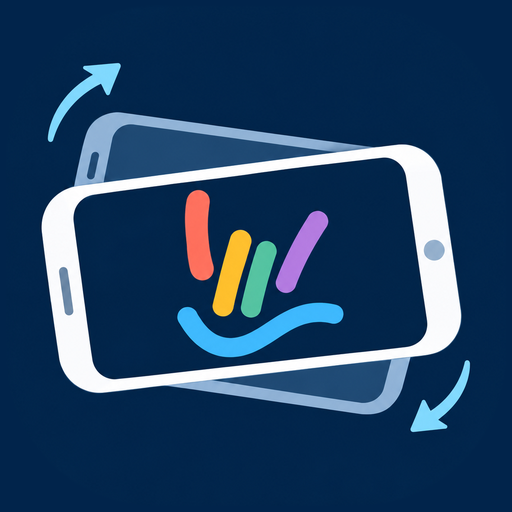
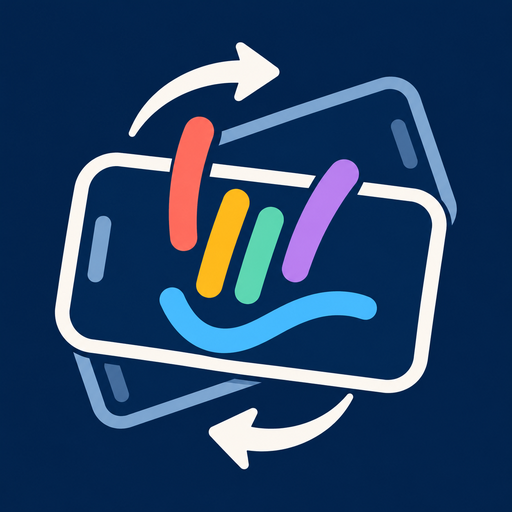
Sync from the private site (88ce4f0)

Changed region(s): [[0.0625, 0.0625, 0.9062, 0.9375], [0.7812, 0.6875, 0.9375, 0.8438], [0.0938, 0.125, 0.25, 0.2812]]

diff --git a/whoami/index.html b/whoami/index.html
@@ -9,7 +9,7 @@
 <meta name="apple-mobile-web-app-title" content="Who Do You Think You Are?">
 <title>Who Do You Think You Are?</title>
 <link rel="icon" type="image/png" href="../img/logo-512.png">
-<link rel="apple-touch-icon" href="icon-180.png">
+<link rel="apple-touch-icon" href="icon-180.png?v=3">
 <meta name="apple-mobile-web-app-status-bar-style" content="black-translucent">
 <link rel="manifest" href="manifest.json">
 <link rel="stylesheet" href="https://fonts.googleapis.com/css2?family=Fredoka:wght@500;600;700&family=Nunito:wght@600;700;800&display=swap">
@@ -26,7 +26,7 @@ h1, h2, .big { font-family: Fredoka, Nunito, system-ui, sans-serif; }
 button { font: inherit; cursor: pointer; border: 0; }
 .wrap { max-width: 980px; margin: 0 auto; padding: max(14px, env(safe-area-inset-top)) max(16px, env(safe-area-inset-right)) max(24px, env(safe-area-inset-bottom)) max(16px, env(safe-area-inset-left)); }
 .top { display: flex; align-items: center; gap: 12px; margin: 4px 0 14px; }
-.logo { width: 54px; height: 54px; border-radius: 16px; background: var(--ink); display: grid; place-items: center; font-size: 30px; transform: rotate(-6deg); box-shadow: 0 4px 0 #0d0926; }
+.logo { width: 58px; height: 58px; border-radius: 16px; display: block; flex: none; transform: rotate(-6deg); box-shadow: 0 4px 0 #0d0926; }      /* 2026-11-25 her new logo */
 .top h1 { margin: 0; font-size: clamp(28px, 6vw, 42px); letter-spacing: .5px; line-height: 1; }
 .top h1 span { color: #E91E63; }
 .sub { margin: 2px 0 0; color: var(--muted); font-weight: 700; font-size: 15px; }
@@ -162,7 +162,7 @@ button { font: inherit; cursor: pointer; border: 0; }
 </head>
 <body>
 <div class="wrap">
-  <header class="top"><div class="logo" aria-hidden="true">🤟</div><div><h1>Who Do You<br><span>Think You Are?</span></h1><p class="sub">Phone on your forehead. Friends describe it in ASL. Tilt to answer.</p></div><a id="edit" href="/colleen/whoami" hidden style="margin-left:auto;background:var(--ink);color:#fff;border-radius:12px;padding:8px 12px;font-weight:800;text-decoration:none;white-space:nowrap">✏ Edit decks</a></header>
+  <header class="top"><img class="logo" src="icon-192.png?v=3" alt="" aria-hidden="true"><div><h1>Who Do You<br><span>Think You Are?</span></h1><p class="sub">Phone on your forehead. Friends describe it in ASL. Tilt to answer.</p></div><a id="edit" href="/colleen/whoami" hidden style="margin-left:auto;background:var(--ink);color:#fff;border-radius:12px;padding:8px 12px;font-weight:800;text-decoration:none;white-space:nowrap">✏ Edit decks</a></header>
 
   <!-- 1. pick a deck -->
   <section id="pick" class="screen on">

diff --git a/whoami/sw.js b/whoami/sw.js
@@ -1,7 +1,7 @@
 /* Who Do You Think You Are? (was Forehead Flash, 2026-11-23): makes the Home Screen app open fast and keep working if the Wi-Fi drops.
    The page and icons: saved copy first, refreshed in the background. Her decks (decks.json): the network first, the saved copy if offline.
    Pictures: saved the first time they load, so a deck played once works offline. Change VER to replace everything. */
-const VER = 'ff-23', SHELL = ['./', 'index.html', 'starter.json', 'manifest.json', 'icon-192.png', 'icon-512.png'];
+const VER = 'ff-24', SHELL = ['./', 'index.html', 'starter.json', 'manifest.json', 'icon-192.png', 'icon-512.png'];
 self.addEventListener('install', e => { e.waitUntil(caches.open(VER).then(c => c.addAll(SHELL)).then(() => self.skipWaiting())); });
 self.addEventListener('activate', e => { e.waitUntil(caches.keys().then(ks => Promise.all(ks.filter(k => k !== VER && k !== 'ff-pics2').map(k => caches.delete(k)))).then(() => self.clients.claim())); });
 self.addEventListener('fetch', e => {

diff --git a/apps/index.html b/apps/index.html
@@ -55,7 +55,7 @@ header p { margin: 0; font-size: 18px; opacity: .92; }
       <a class="how" href="/numberwise/?help">📲 How to put it on your phone</a>
     </article>
     <article class="app"><!-- 2026-11-24 Colleen: "add the heads up game to the /apps site" -->
-      <div class="top"><img src="/whoami/icon-512.png" alt="" width="84" height="84"><div><h2>Who Do You Think You Are?</h2><p class="tag">Group guessing game</p></div></div>
+      <div class="top"><img src="/whoami/icon-512.png?v=3" alt="" width="84" height="84"><div><h2>Who Do You Think You Are?</h2><p class="tag">Group guessing game</p></div></div>
       <p class="d">Hold the phone on your forehead while friends describe the name in ASL. Tilt down when you get it, tilt up to pass. Play solo, in teams, or as a whole-class buzzer battle.</p>
       <a class="go" href="/whoami/">Play Who Do You Think You Are?</a>
     </article>
